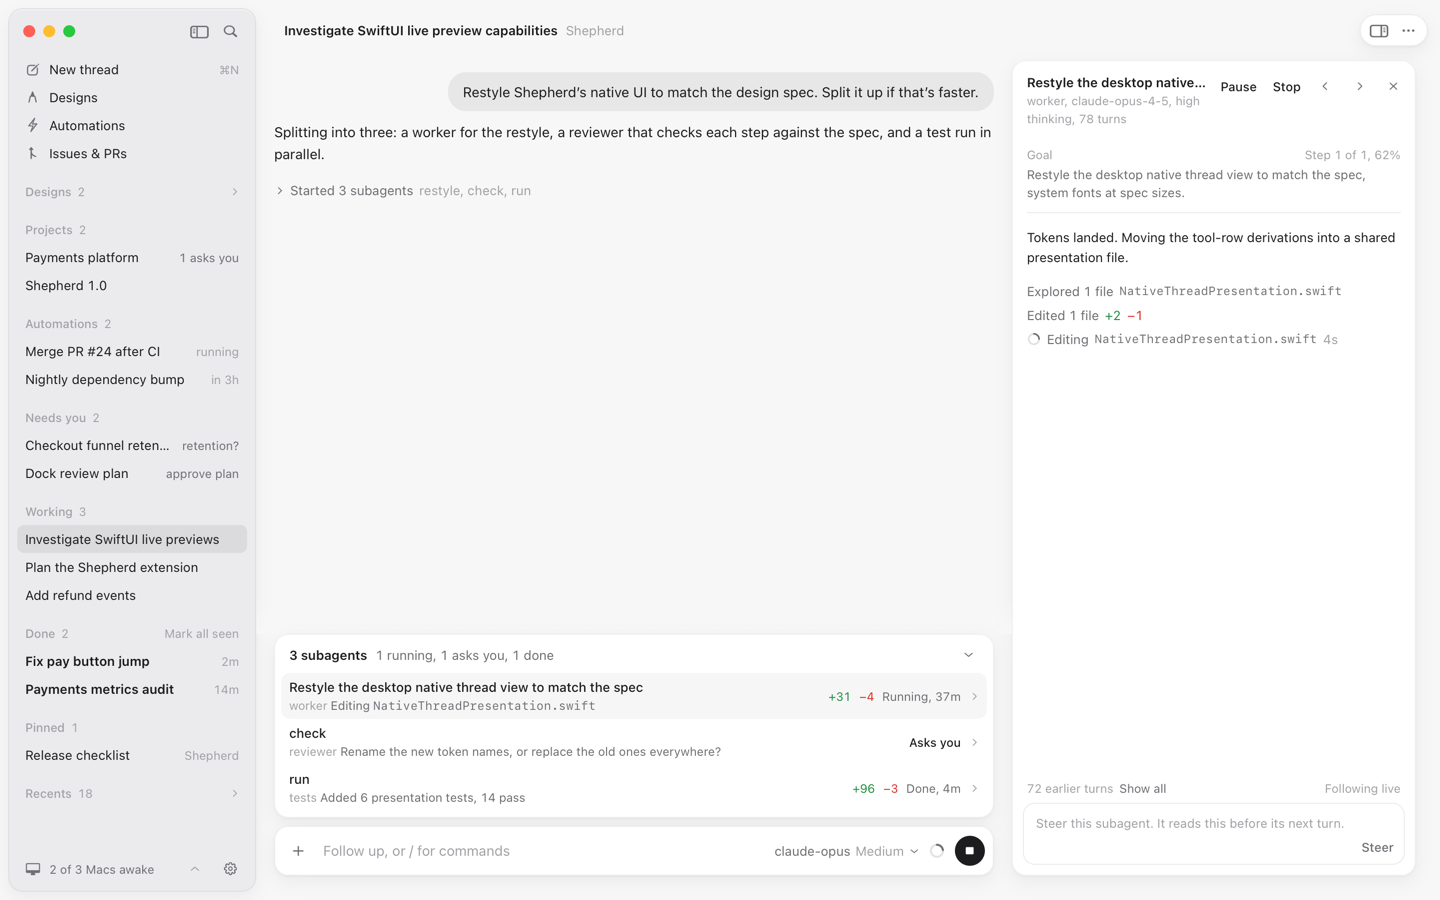
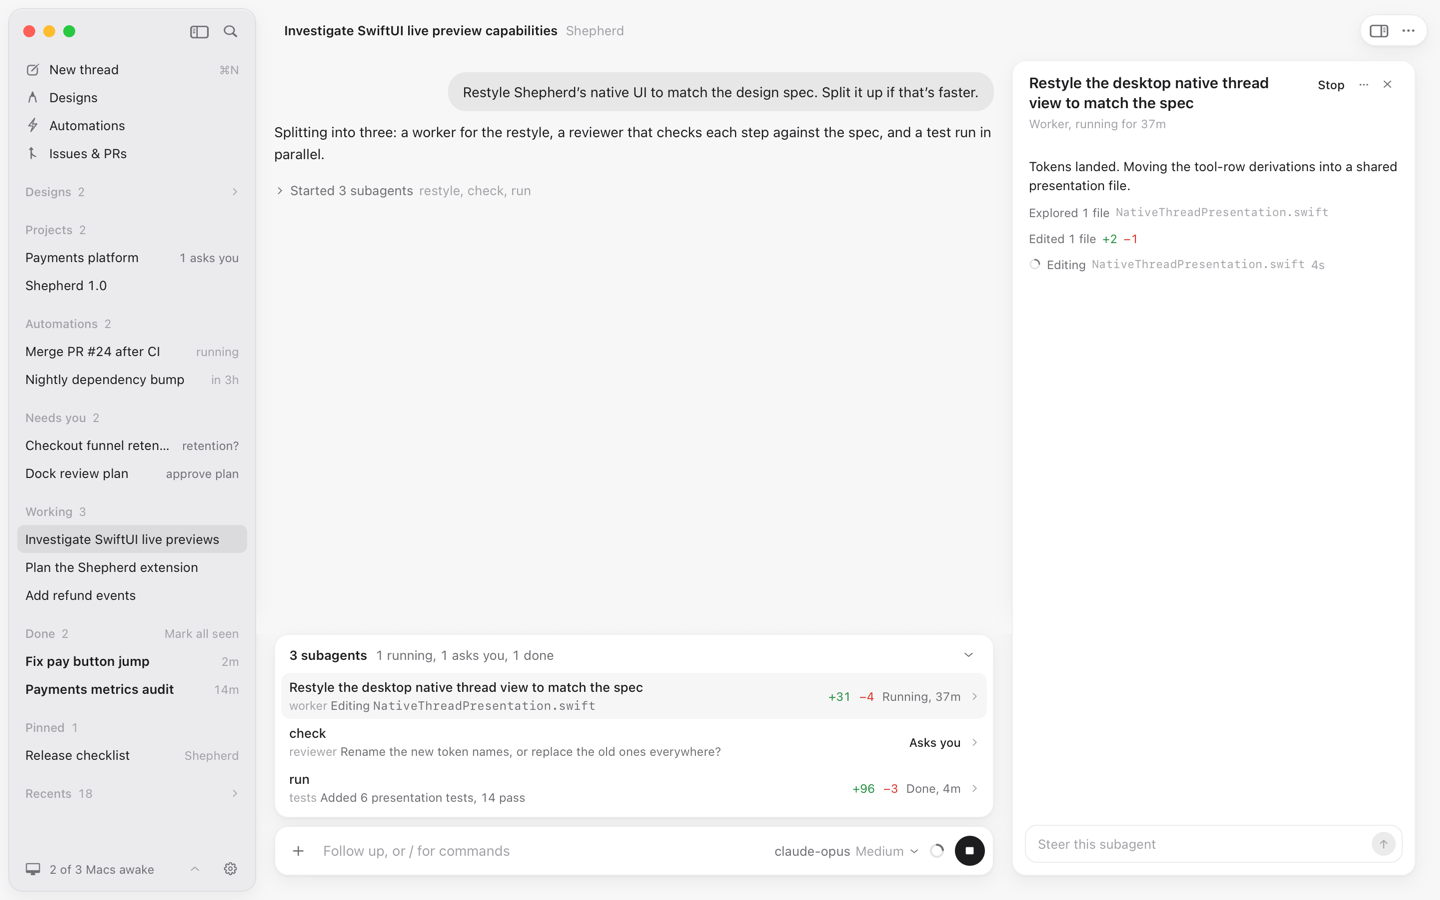
test: the inspector's fit is measured in its card, and the board is saved

diff --git a/Tests/ShepherdAppIntegrationTests/ThreadFitTests.swift b/Tests/ShepherdAppIntegrationTests/ThreadFitTests.swift
@@ -122,12 +122,12 @@ struct OpenedActivityFitTests {
     }
 }
 
-/// A subagent's transcript in the inspector, which draws the thread's turns in the side pane's
-/// narrowest column (the pane's minimum less the inspector's padding): the same rows, the same fit.
+/// A subagent's transcript in the inspector, which draws the thread's turns in its card's body (the card's 404pt less the
+/// body's side padding): the same rows, the same fit.
 @Suite("A subagent's transcript fits the inspector", .serialized, .mainActorExclusive)
 @MainActor
 struct InspectorFitTests {
-    nonisolated static let column: CGFloat = AppLayout.paneMinWidth - 2 * AppLayout.inspectorPadding
+    nonisolated static let column: CGFloat = AppLayout.inspectorCardWidth - AppLayout.inspectorBodyPadding.leading - AppLayout.inspectorBodyPadding.trailing
 
     @Test(arguments: LongThreads.rows)
     func aTranscriptsTurnsFitTheInspectorsColumn(_ row: LongThreads.Row) async throws {

diff --git a/Sources/ShepherdApp/AppLayout+Agents.swift b/Sources/ShepherdApp/AppLayout+Agents.swift
@@ -15,9 +15,8 @@ extension AppLayout {
     static let inspectorCardBottom: CGFloat = SHSidePaneMetrics.cardInset + 16
     /// What the card takes beside the thread: its gap before it and its trailing inset.
     static let inspectorCardEdge: CGFloat = SHSidePaneMetrics.cardGap + inspectorCardTrailing
-    static let inspectorPadding: CGFloat = 14
     static let inspectorTurnSpacing: CGFloat = 16
-    /// "72 earlier turns · Show all" · "Following live".
+    /// "72 earlier turns · Show all" · "Reading earlier output".
     static let inspectorFooterHeight: CGFloat = 28
     static let steerMaxLines = 6
     /// The Subagents board's 10pt inset above the Steer card, and above its field.

diff --git a/Sources/ShepherdApp/Thread/SubagentInspector.swift b/Sources/ShepherdApp/Thread/SubagentInspector.swift
@@ -351,7 +351,7 @@ private struct SubagentRunInspector: View {
         return text.trimmingCharacters(in: .whitespacesAndNewlines) == role(run)
     }
 
-    /// "n earlier turns · Show all" · "Following live" (live runs only); a finished run's whole
+    /// "n earlier turns · Show all" · "Reading earlier output" (live runs, off the tail); a finished run's whole
     /// transcript says where it is read instead: "turn 4 of 11" · "Scroll for the rest".
     private func footerLine(_ run: ChildRun?) -> some View {
         let position = run?.isTerminal == true && transcript.earlierCount == 0

diff --git a/Sources/ShepherdApp/RightPaneSplit.swift b/Sources/ShepherdApp/RightPaneSplit.swift
@@ -79,7 +79,7 @@ final class RightPaneState {
 }
 
 /// The agent's layout (its thread and any terminal panes) on the left, the side pane (its tabs, or
-/// an inspected subagent) beside it (PaneStates: 380pt at least, 600 default, at most half the
+/// an inspected subagent, a card of its own under the toolbar: `inspector`) beside it (PaneStates: 380pt at least, 600 default, at most half the
 /// column, the drag handle on its left edge). In a column too narrow to keep the layout at 400pt, the pane overlays it from the
 /// trailing edge instead of squeezing it (`ShellLayout`).
 ///
